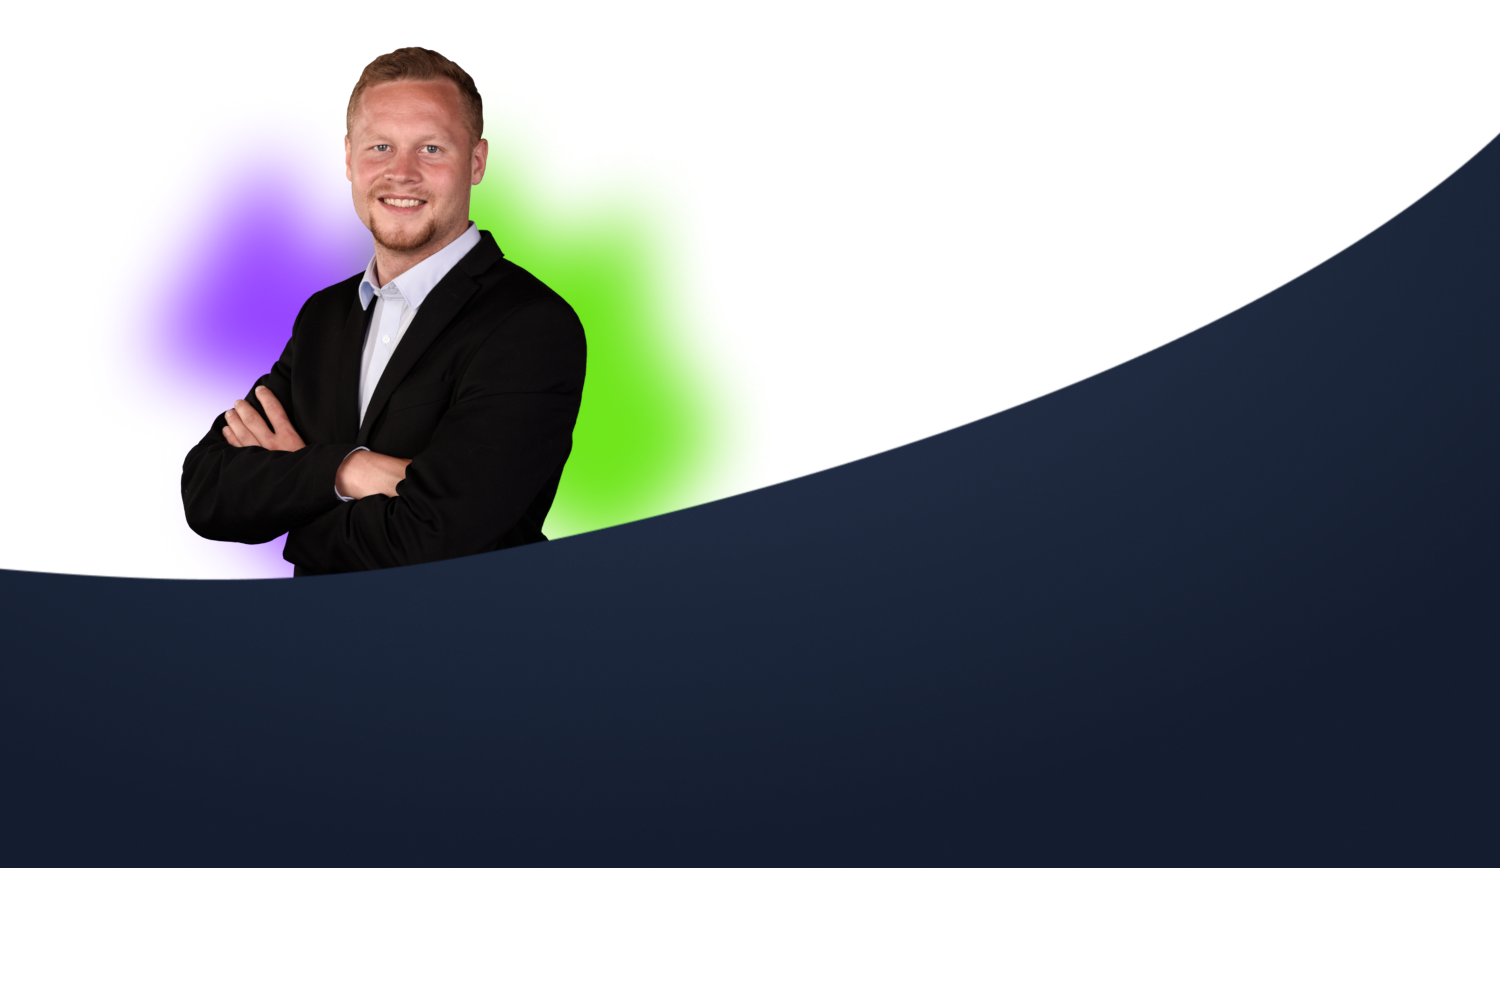
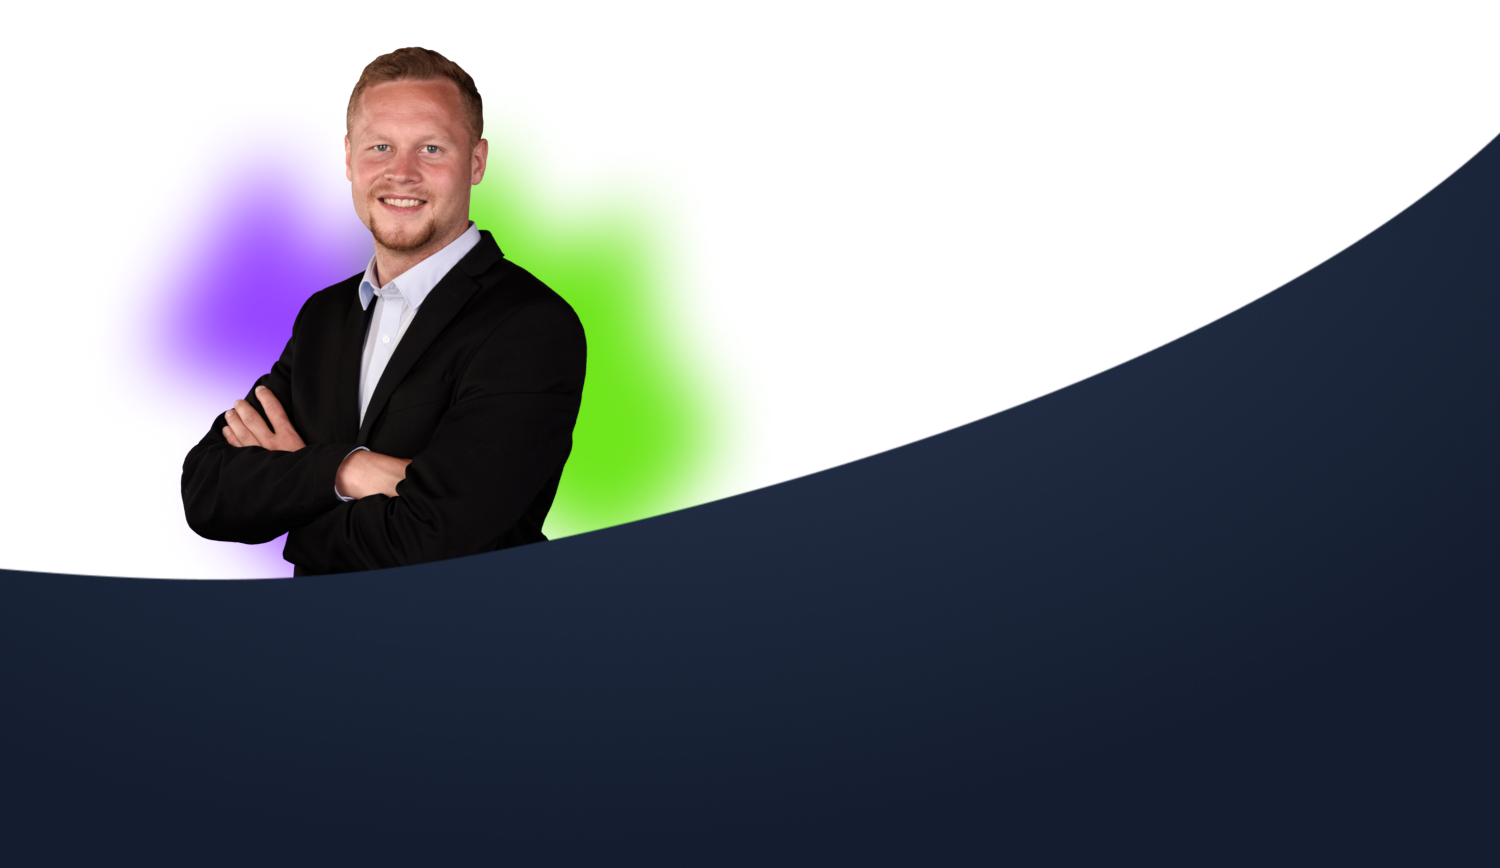
Update background styling and header image size
Removed unused background properties and media queries from above-the-fold styles. Reduced header image height from 45px to 35px. Updated background-2.png image asset.

Changed region(s): [[0.0, 0.0311, 1.0, 0.6843], [0.0, 0.8399, 1.0, 1.0]]

diff --git a/src/app/above-the-fold/above-the-fold.component.scss b/src/app/above-the-fold/above-the-fold.component.scss
@@ -10,7 +10,6 @@ main {
     background-image: url("../../assets/img/background-2.png");
     background-size: 100%;
     background-repeat: no-repeat;
-    background-origin: 50% 50%;
 }
 
 .hero {
@@ -246,12 +245,5 @@ main {
 @media (max-width: 400px) {
     main {
         background-position: 20% 10%;
-    }
-}
-
-@media (min-width: 2500px) {
-    main {
-        background-position: 0% 0%, 38% 15%, 40% 25%;
-        background-size: 120%, 30%, 40%;
     }
 }

diff --git a/src/app/shared/header/header.component.scss b/src/app/shared/header/header.component.scss
@@ -22,7 +22,7 @@ div {
 }
 
 img {
-    height: 45px;
+    height: 35px;
 }
 
 .header-content {
